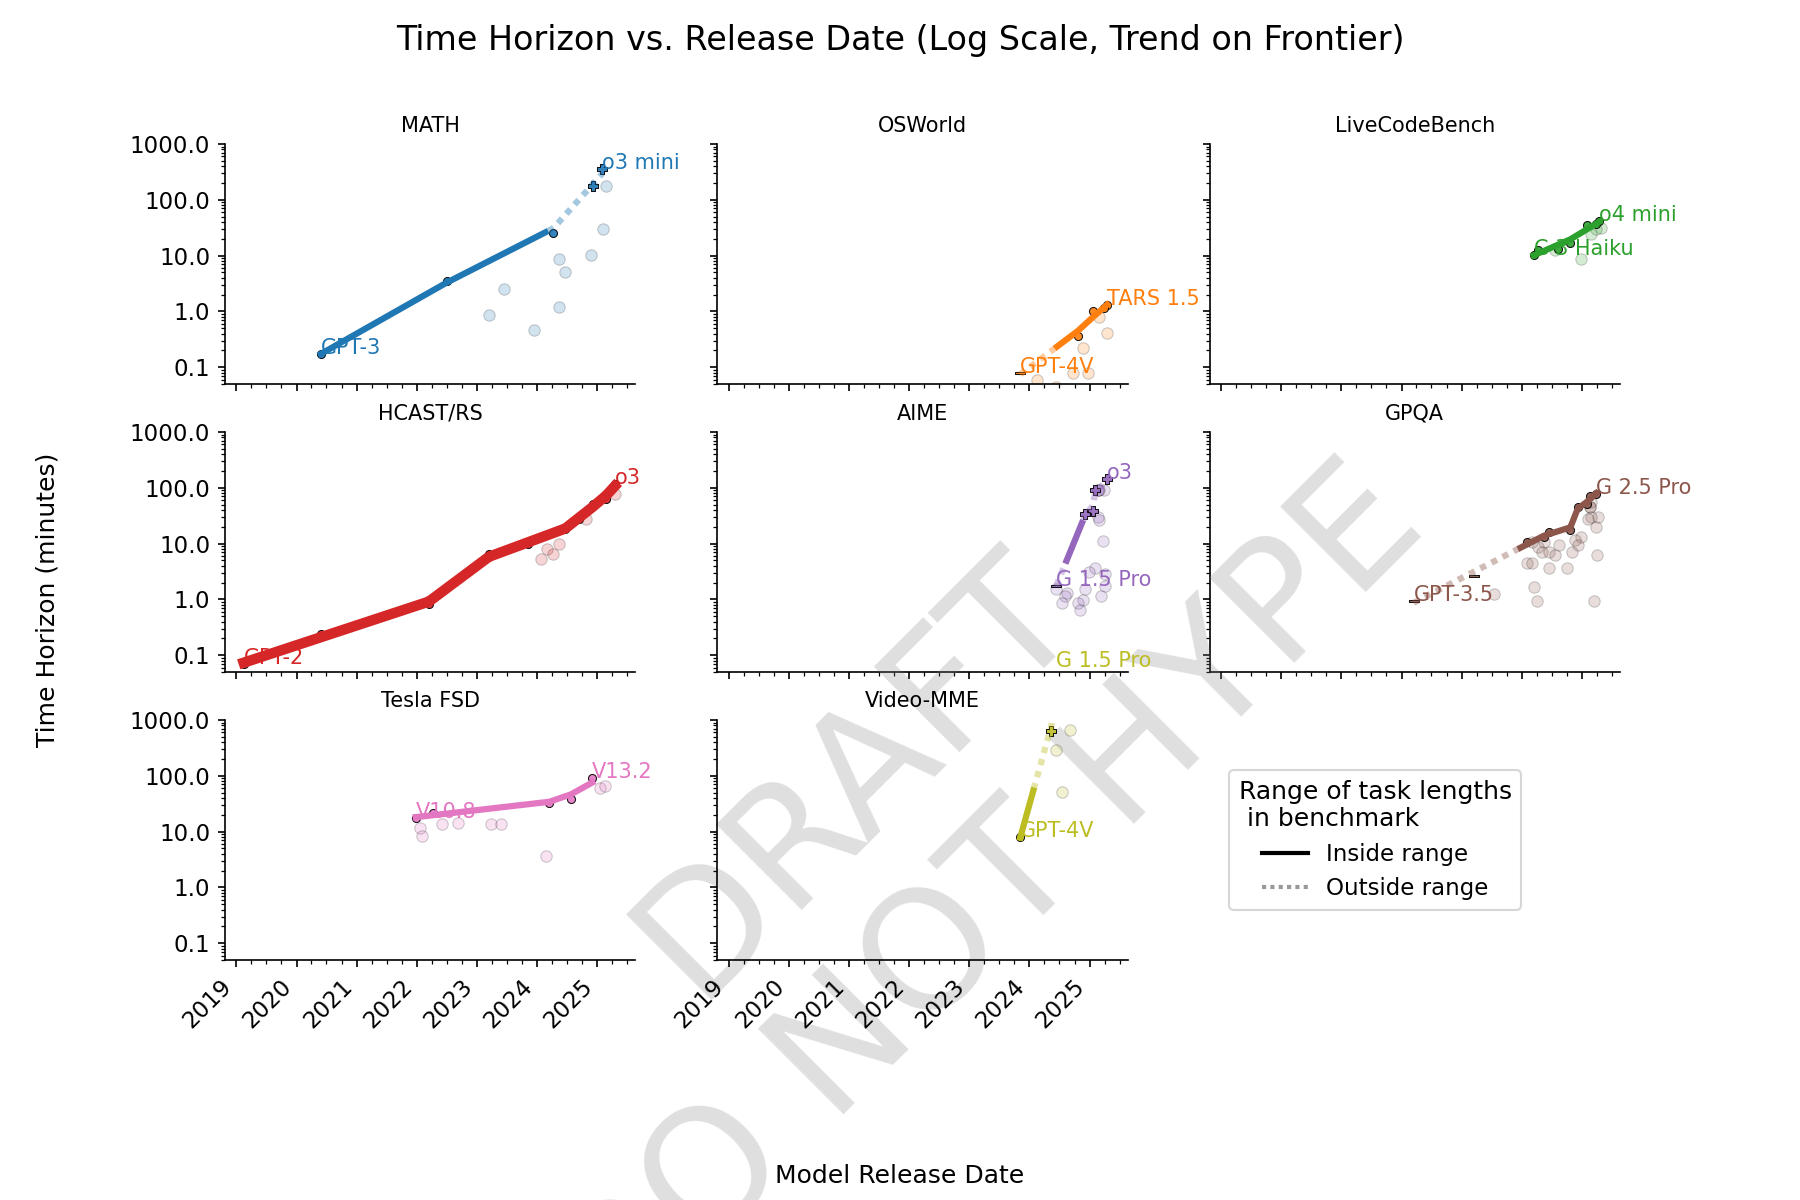
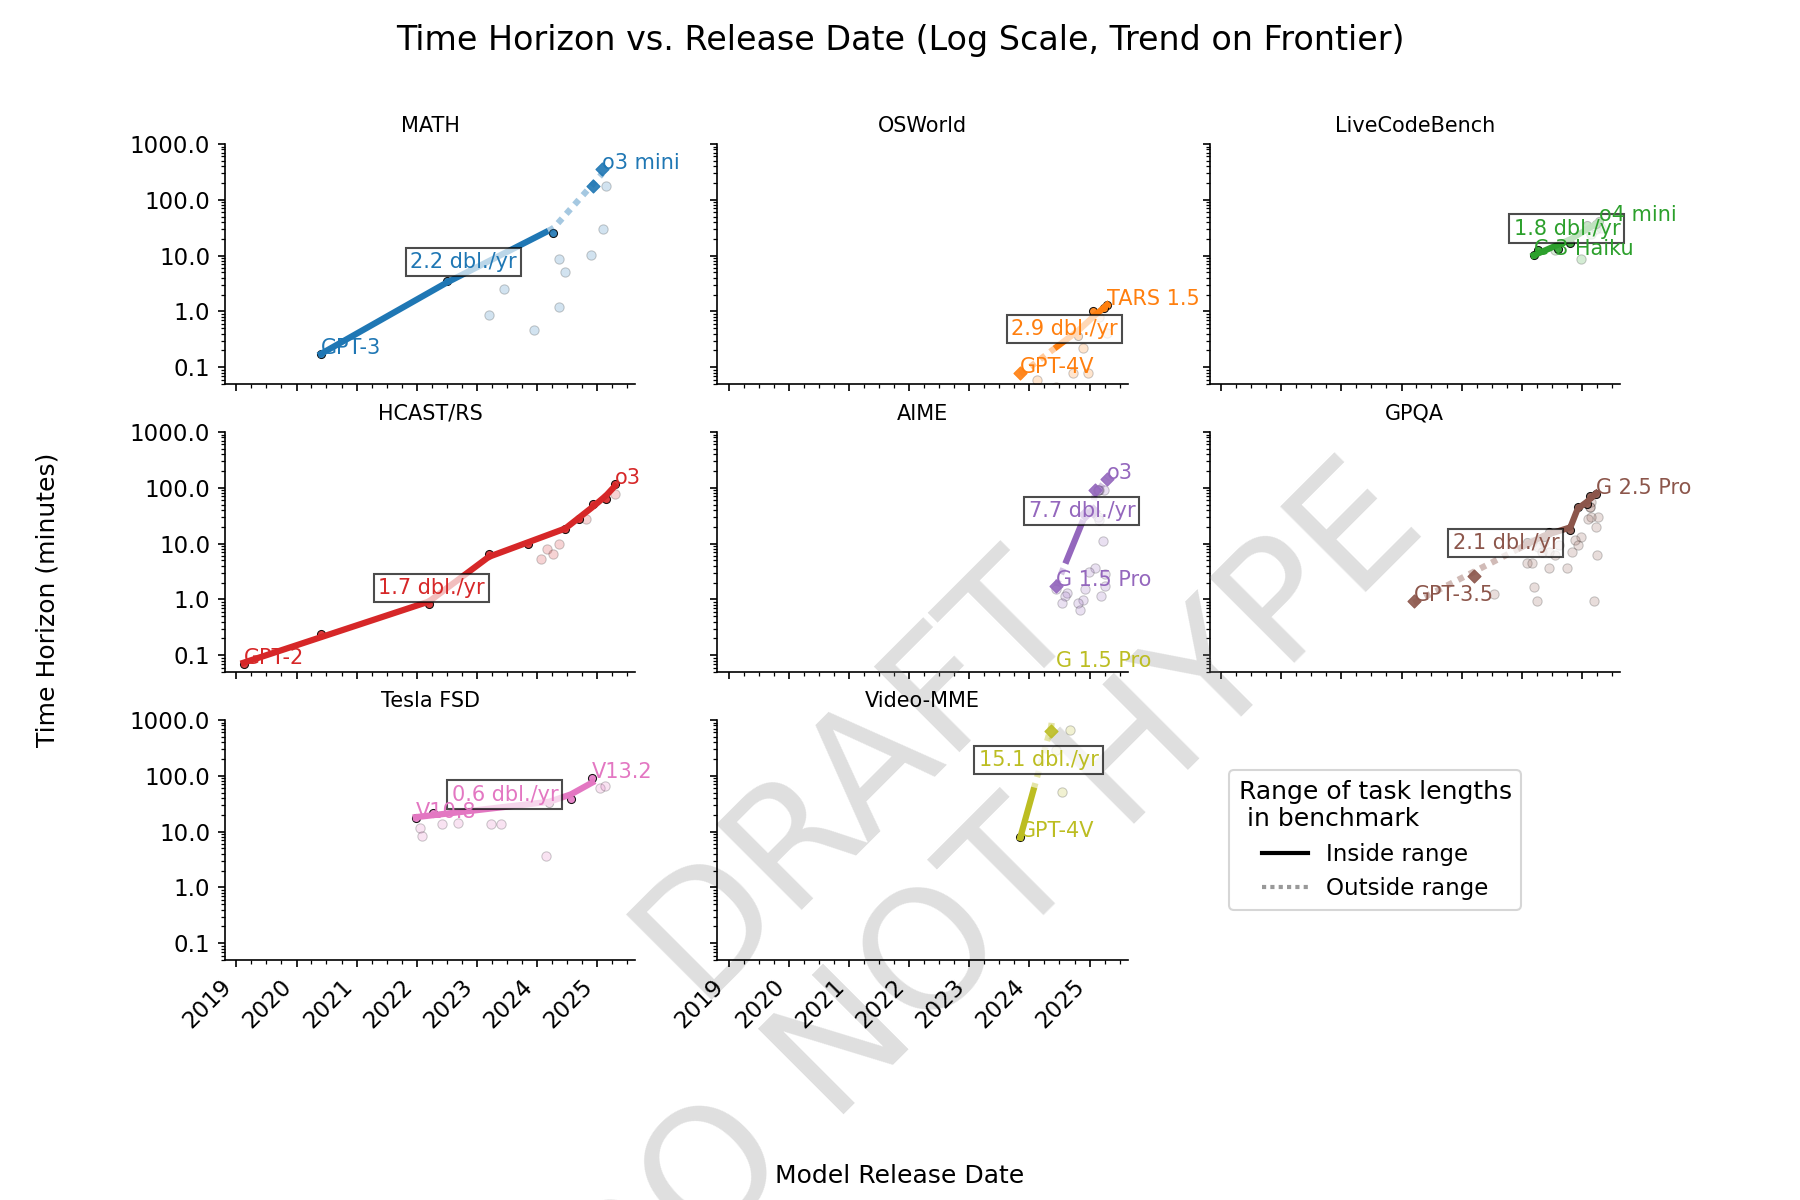
subplots

diff --git a/plots.py b/plots.py
@@ -238,17 +238,15 @@ def plot_lines_over_time(df, output_file,
 
         # Plot non-frontier points (circles)
         if params.show_points_level >= ShowPointsLevel.ALL:
-            scatter_points(non_frontier_data, f"_{bench}_nonfrontier", marker='o', alpha=0.2, s=30, edgecolor='k', linewidth=0.5)
+            scatter_points(non_frontier_data, f"_{bench}_nonfrontier", marker='o', alpha=0.2, s=20, edgecolor='k', linewidth=0.5)
 
         df_within = frontier_data[(frontier_data['horizon_minutes'] > p2) & (frontier_data['horizon_minutes'] < p98)]
-        df_above = frontier_data[frontier_data['horizon_minutes'] > p98]
-        df_below = frontier_data[frontier_data['horizon_minutes'] < p2]
+        df_outside = frontier_data[(frontier_data['horizon_minutes'] > p98) | (frontier_data['horizon_minutes'] < p2)]
 
         # Plot frontier points (diamonds)
         if params.show_points_level >= ShowPointsLevel.FRONTIER:
             scatter_points(df_within, f"_{bench}", marker='o', alpha=0.9, s=15, edgecolor='k', linewidth=0.5)
-            scatter_points(df_above, f"_{bench}_above", marker='P', alpha=0.9, s=20, edgecolor='k', linewidth=0.5)
-            scatter_points(df_below, f"_{bench}_below", marker='$-$', alpha=0.9, s=20, edgecolor='k', linewidth=0.5)
+            scatter_points(df_outside, f"_{bench}_outside", marker='D', alpha=0.9, s=20, linewidth=0.5)
         else:
             
             frontier_data = frontier_data.sort_values('release_date_num')
@@ -292,9 +290,9 @@ def plot_lines_over_time(df, output_file,
             mask_above = y_line > p98
             mask_below = y_line < p2
 
-            is_hcast = bench == "hcast_r_s"
-            # Plot HCAST in front and thicker
-            ax.plot(x_line_date[mask_within], y_line[mask_within], color=color, linestyle='-', linewidth=5 if is_hcast else 3, label=f"{benchmark_aliases[bench]}", zorder=100 if is_hcast else None)
+            thick = (bench == "hcast_r_s") and not params.subplots
+
+            ax.plot(x_line_date[mask_within], y_line[mask_within], color=color, linestyle='-', linewidth=5 if thick else 3, label=f"{benchmark_aliases[bench]}", zorder=100 if thick else None)
             ax.plot(x_line_date[mask_above], y_line[mask_above], color=color, alpha=0.4, linestyle=densely_dotted, linewidth=3)
             ax.plot(x_line_date[mask_below], y_line[mask_below], color=color, alpha=0.4, linestyle=densely_dotted, linewidth=3)
 
@@ -351,10 +349,7 @@ def plot_lines_over_time(df, output_file,
     handle2, = ax.plot([], [], color='black', linestyle=densely_dotted, alpha=0.4, linewidth=2, label="Outside range")
     trend_legend_handles.append(handle2)
 
-    if params.subplots:
-        trend_legend_ax = axs[-1]
-    else:
-        trend_legend_ax = ax
+    trend_legend_ax = axs[-1] if params.subplots else ax
 
     trend_legend = trend_legend_ax.legend(handles=trend_legend_handles, title="Range of task lengths\n in benchmark", bbox_to_anchor=(0.02, 0.5), loc='center left')
 
@@ -532,7 +527,7 @@ def main():
         # Generate and save the lines over time plot using the original loaded data
         plot_lines_over_time(all_df.copy(), LINES_PLOT_OUTPUT_FILE, benchmark_data, LinesPlotParams(hide_benchmarks=["hcast_r_s_full_method"], show_points_level=ShowPointsLevel.NONE)) # Use copy
         plot_lines_over_time(all_df.copy(), "plots/hcast_comparison.png", benchmark_data, LinesPlotParams(show_benchmarks=["hcast_r_s", "hcast_r_s_full_method"], show_points_level=ShowPointsLevel.FRONTIER))
-        plot_lines_over_time(all_df.copy(), LINES_SUBPLOTS_OUTPUT_FILE, benchmark_data, LinesPlotParams(hide_benchmarks=["hcast_r_s_full_method"], show_points_level=ShowPointsLevel.ALL, subplots=True))
+        plot_lines_over_time(all_df.copy(), LINES_SUBPLOTS_OUTPUT_FILE, benchmark_data, LinesPlotParams(hide_benchmarks=["hcast_r_s_full_method"], show_points_level=ShowPointsLevel.ALL, subplots=True, show_doubling_rate=True))
 
 
     # --- Benchmark Task Lengths Plot ---
